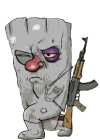
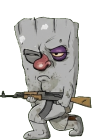
animation

diff --git a/game.js b/game.js
@@ -77,6 +77,14 @@ quadcopterImage.src = "drone.png";
 
 const vatnikImage = new Image();
 vatnikImage.src = "vatnik.png";
+const vatnikStep1Image = new Image();
+vatnikStep1Image.src = "vatnik_step1.png";
+const vatnikStep2Image = new Image();
+vatnikStep2Image.src = "vatnik_step2.png";
+const vatnikStep3Image = new Image();
+vatnikStep3Image.src = "vatnik_step3.png";
+const walkAnimationFrames = [vatnikImage, vatnikStep3Image, vatnikStep1Image, vatnikStep2Image];
+
 
 const hideImage = new Image();
 hideImage.src = "hide.png";
@@ -185,19 +193,40 @@ function updateAndDrawMonsters() {
             ctx.drawImage(DeadImage, m.x - 50, groundY - 100);
             return; // Skip update logic for dead monsters
         }
+        
+        // --- Animate and Draw Monster ---
+        let currentSprite;
+        let isMoving = false;
+        
+        // Determine state and if moving
+        if (isCalmMode || m.health >= m.panicThreshold && !firstBombLanded || m.moveTimer > 0) {
+            isMoving = true;
+        } else if (m.health < m.panicThreshold && !isCalmMode) {
+            isMoving = true;
+        } else if (m.waitTimer > 0) {
+            isMoving = false;
+        }
 
-        // --- AI BEHAVIOR & DRAWING ---
-
-        // FORCE CALM MODE (Override other states if too much time passed)
+        // Set sprite and handle animation
+        if (isMoving) {
+            m.animationTimer++;
+            if (m.animationTimer > 10) {
+                m.animationTimer = 0;
+                m.animationFrame = (m.animationFrame + 1) % walkAnimationFrames.length;
+            }
+            currentSprite = walkAnimationFrames[m.animationFrame];
+        } else {
+            // If waiting, use hide image and reset animation
+            currentSprite = hideImage;
+            m.animationFrame = 0;
+            m.animationTimer = 0;
+        }
+        
+        ctx.drawImage(currentSprite, m.x - 50, groundY - 140);
+        
+        // --- AI LOGIC ---
         if (isCalmMode) {
-             // Reset speaking if active
-             if (m.speaking) {
-                m.speaking = false;
-                textBubbleActive = false;
-             }
-             
-             ctx.drawImage(vatnikImage, m.x - 50, groundY - 140);
-             // Calm behavior
+             if (m.speaking) { m.speaking = false; textBubbleActive = false; }
              let calmSpeed = 2;
              if (Date.now() - m.lastDirectionChange >= 1000) {
                  m.speed = Math.random() < 0.5 ? -calmSpeed : calmSpeed;
@@ -205,15 +234,8 @@ function updateAndDrawMonsters() {
              }
              m.x += m.speed;
         }
-        // STAGE 3: PANIC (Health < panicThreshold)
         else if (m.health < m.panicThreshold) {
-            // Panic behavior doesn't support speaking
-            if (m.speaking) {
-                m.speaking = false;
-                textBubbleActive = false;
-            }
-
-            ctx.drawImage(vatnikImage, m.x - 50, groundY - 140);
+            if (m.speaking) { m.speaking = false; textBubbleActive = false; }
             let panicSpeed = m.basePanicSpeed;
             if (Date.now() - m.lastDirectionChange >= 200) {
                 m.speed = Math.random() < 0.5 ? -panicSpeed : panicSpeed;
@@ -221,66 +243,40 @@ function updateAndDrawMonsters() {
             }
             m.x += m.speed;
         }
-        // STAGE 2: TACTICAL (After first bomb, Health >= panicThreshold)
         else if (firstBombLanded) {
-
             if (m.moveTimer > 0) {
-                // RUNNING STATE
-                ctx.drawImage(vatnikImage, m.x - 50, groundY - 140);
                 m.moveTimer--;
                 m.x += m.speed;
                 if (m.moveTimer <= 0) {
-                    // Transition to WAITING
-                    m.waitTimer = getRandomInt(60, 300); // 1 to 5 seconds
-                    
-                    // Try to speak
+                    m.waitTimer = getRandomInt(60, 300);
                     if (!textBubbleActive) {
-                        textBubbleActive = true;
-                        m.speaking = true;
+                        textBubbleActive = true; m.speaking = true;
                         m.currentTextIndex = getRandomInt(0, 6);
-                    } else {
-                        m.speaking = false;
-                    }
+                    } else { m.speaking = false; }
                 }
             } else if (m.waitTimer > 0) {
-                // WAITING STATE
-                ctx.drawImage(hideImage, m.x - 50, groundY - 140);
                 m.waitTimer--;
-                // Show text only if this monster holds the lock
                 if (m.speaking) {
                     ctx.drawImage(drawtextArray[m.currentTextIndex], m.x - 165, groundY - 165);
                 }
-                
                 if (m.waitTimer <= 0) {
-                    // Transition to RUNNING
-                    if (m.speaking) {
-                        m.speaking = false;
-                        textBubbleActive = false;
-                    }
-                    m.moveTimer = getRandomInt(30, 200); // 0.5 to 3.3 seconds
+                    if (m.speaking) { m.speaking = false; textBubbleActive = false; }
+                    m.moveTimer = getRandomInt(30, 200);
                     let speedVariation = (Math.random() - 0.5) * 2;
                     let currentRunSpeed = m.baseRunSpeed + speedVariation;
                     m.speed = Math.random() < 0.5 ? -currentRunSpeed : currentRunSpeed;
                 }
             } else {
-                // Fallback init
-                ctx.drawImage(vatnikImage, m.x - 50, groundY - 140);
                 if (m.moveTimer <= 0 && m.waitTimer <= 0) {
-                     m.waitTimer = getRandomInt(6, 120); 
-                     
+                     m.waitTimer = getRandomInt(6, 120);
                      if (!textBubbleActive) {
-                        textBubbleActive = true;
-                        m.speaking = true;
+                        textBubbleActive = true; m.speaking = true;
                         m.currentTextIndex = getRandomInt(0, 6);
-                     } else {
-                        m.speaking = false;
-                     }
+                     } else { m.speaking = false; }
                 }
             }
         }
-        // STAGE 1: CALM (Before first bomb)
         else {
-            ctx.drawImage(vatnikImage, m.x - 50, groundY - 140);
             let calmSpeed = 2;
             if (Date.now() - m.lastDirectionChange >= 1000) {
                 m.speed = Math.random() < 0.5 ? -calmSpeed : calmSpeed;
@@ -534,6 +530,8 @@ function startgame(){
             moveTimer: 0,
             currentTextIndex: 0,
             speaking: false, // Is this monster currently showing a text bubble?
+            animationFrame: 0,
+            animationTimer: 0,
             // Traits randomisation
             baseRunSpeed: getRandomInt(5, 9),
             basePanicSpeed: getRandomInt(11, 15),
